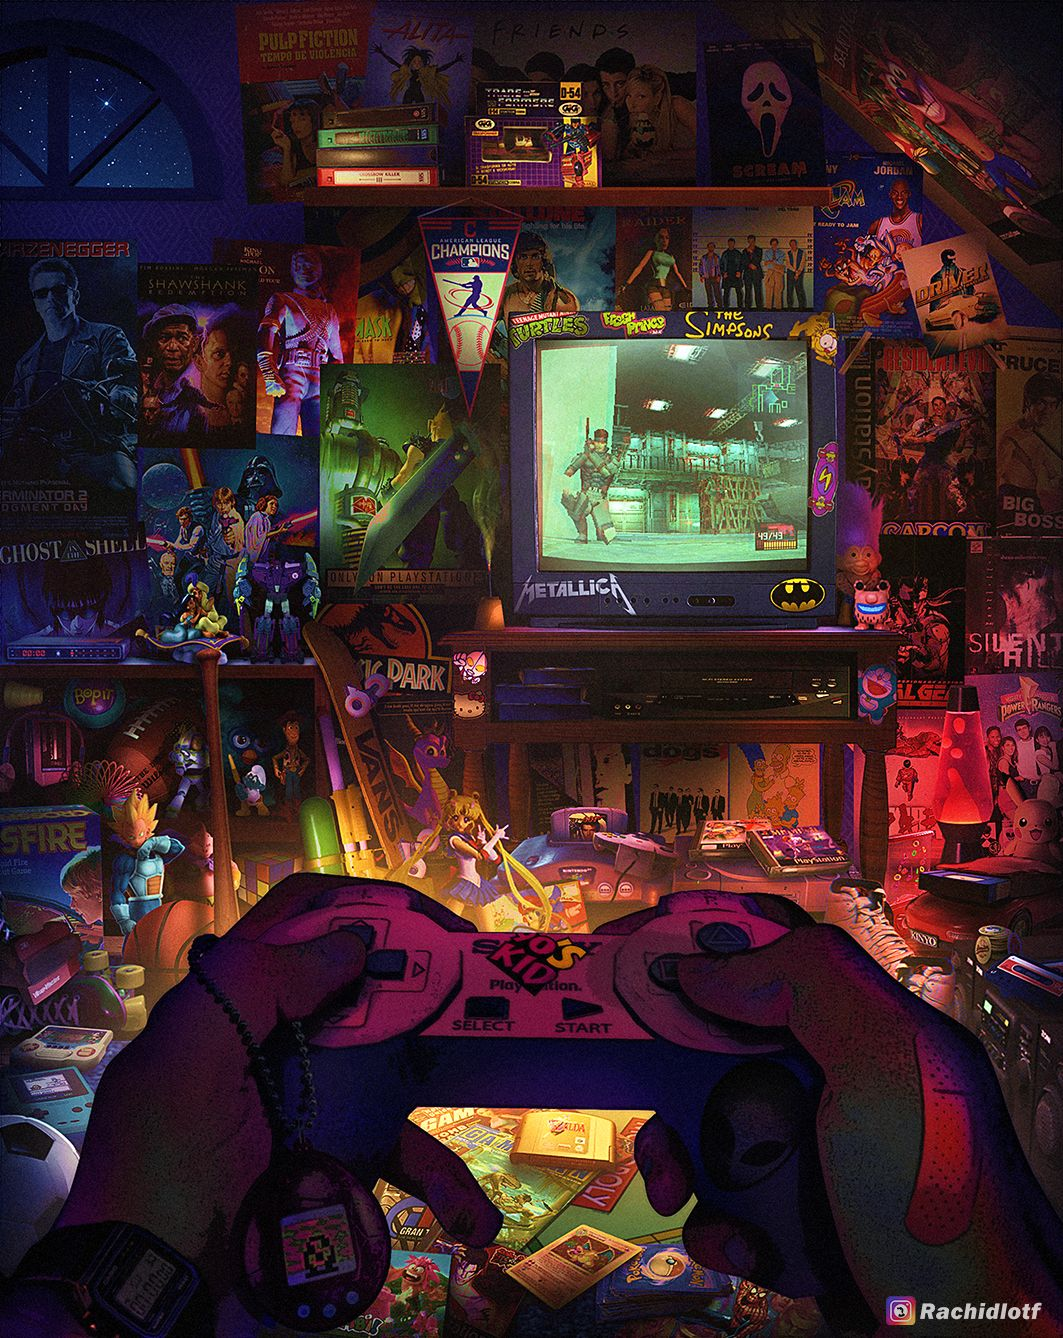
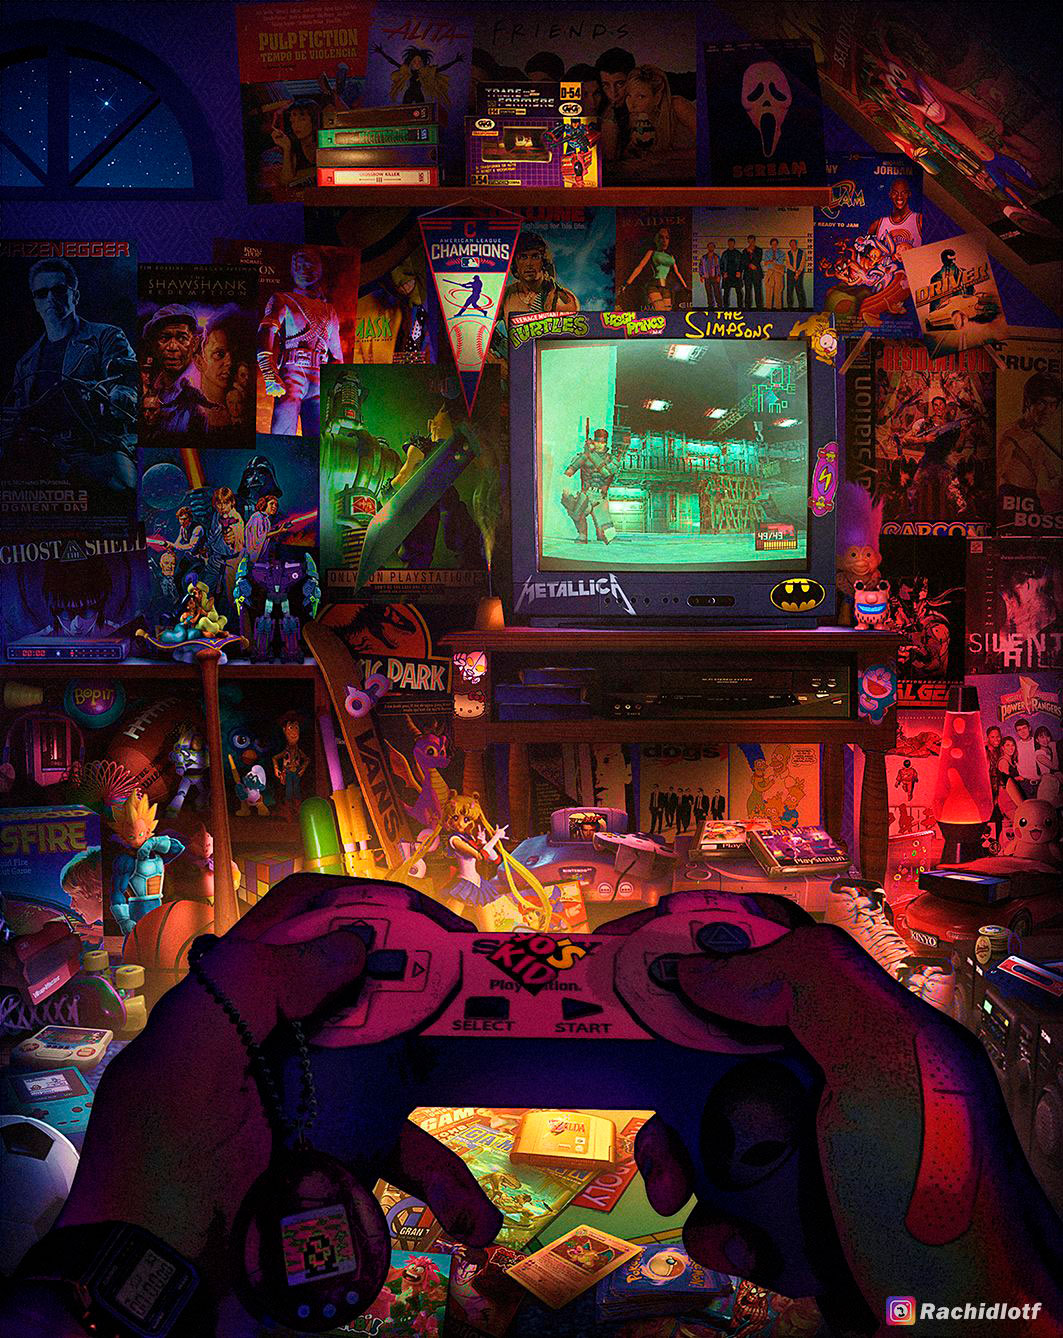
image optimization, bug fixes

diff --git a/src/components/GameSelector/GameSelector.js b/src/components/GameSelector/GameSelector.js
@@ -84,7 +84,7 @@ function GameSelector(props) {
   const sendRequestHandler = (e) => {
     if (e.key === 'Enter' || e.currentTarget.name === 'searchBtn') {
       const stringified = updateQueryStr([
-        ['search', inputValue],
+        ['search', encodeURI(inputValue)],
         ['page', 1],
       ]);
       props.history.push(`${props.history.location.pathname}?${stringified}`);
@@ -163,6 +163,16 @@ function GameSelector(props) {
           <div className={styles.NoGamesFound}>
             <h1>No results have been found! Try to change the query</h1>
           </div>
+        )}
+      </div>
+      <div className={styles.BottomPagination}>
+        {recievedData && (
+          <Paginator
+            totalCount={recievedData.count}
+            itemsPerPage={appConfig.GameSelector.gamesPerRequest}
+            currentPage={queryPage}
+            changeCurrentPage={pageChangeHandler}
+          />
         )}
       </div>
     </div>

diff --git a/src/components/AuthModal/SignUpForm/SignUpForm.module.scss b/src/components/AuthModal/SignUpForm/SignUpForm.module.scss
@@ -10,7 +10,7 @@
   @include flexColSA;
   position: absolute;
   align-items: center;
-  background-image: url('../../../assets/images/backgrounds/signup_back.png');
+  background-image: url('../../../assets/images/backgrounds/signup_back.jpg');
   background-position: center;
   background-size: cover;
   background-color: rgba(0, 0, 0, 0.582);

diff --git a/src/components/PlatformCard/PlatformCard.module.scss b/src/components/PlatformCard/PlatformCard.module.scss
@@ -16,7 +16,7 @@
     cursor: pointer;
     box-shadow: 0 0 10px $blue-shine-color, 0 0 30px $blue-shine-color,
       0 0 60px $blue-shine-color;
-    background: url('../../assets/images/blue_noise.png');
+    background: url('../../assets/images/blue_noise.jpg');
     background-position: center;
   }
   .Logo {

diff --git a/public/index.html b/public/index.html
@@ -38,7 +38,7 @@
       work correctly both with client-side routing and a non-root public URL.
       Learn how to configure a non-root public URL by running `npm run build`.
     -->
-    <title>Retro Games Colletion</title>
+    <title>Retro Games Colleсtion</title>
   </head>
 
   <body>

diff --git a/src/components/GameSelector/GameSelector.module.scss b/src/components/GameSelector/GameSelector.module.scss
@@ -121,3 +121,12 @@ $controlsHeight: 30px;
     @include flexCenter;
   }
 }
+
+.BottomPagination {
+  margin: 0 auto;
+  width: 40%;
+
+  @include respond-to(tablet) {
+    width: 100%;
+  }
+}

diff --git a/src/components/AuthModal/Authmodal.module.scss b/src/components/AuthModal/Authmodal.module.scss
@@ -15,7 +15,6 @@
   width: 600px;
   height: 600px;
   position: relative;
-
   @include respond-to(mobile) {
     width: 100%;
     height: 100%;
